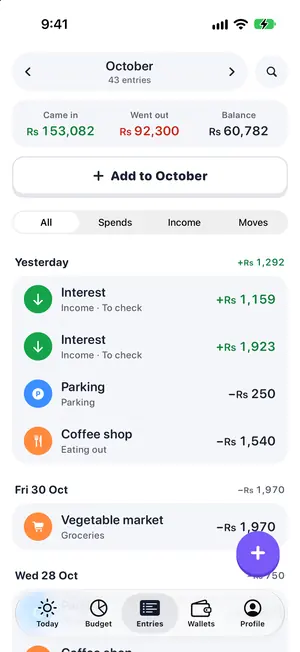
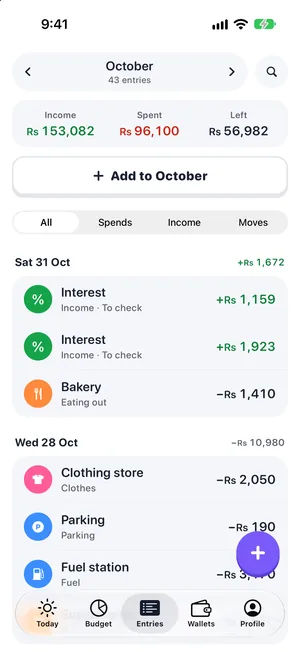
Pouch: re-shoot the screens the app changed
Entries and the Budget overview now read Income / Spent / Left, Wallets is one
list with New wallet, Your data and Add after you pay open from the Settings
sheet, and the Budget screen matches its overview month. All from the
fictional demo data.

diff --git a/work/pouch.html b/work/pouch.html
@@ -58,7 +58,7 @@
       <div class="group-head"><h3>Any currency, any language</h3><ul><li>Income has its own categories, like Salary.</li><li>Paid in another currency? Pouch converts at today&#x27;s rate.</li><li>38 currencies, with yours on top.</li><li>13 languages, including Sinhala and Tamil.</li></ul></div>
       <div class="rail phones"><figure><div class="phone"><div class="screen"><img src="../img/apps/pouch-income.webp" alt="Pouch currencies and languages, screen 1" loading="lazy" decoding="async" srcset="../img/apps/pouch-income-300.webp 300w, ../img/apps/pouch-income.webp 540w" sizes="(max-width: 640px) 34vw, (max-width: 900px) 160px, 240px"></div></div></figure><figure><div class="phone"><div class="screen"><img src="../img/apps/pouch-paid-in.webp" alt="Pouch currencies and languages, screen 2" loading="lazy" decoding="async" srcset="../img/apps/pouch-paid-in-300.webp 300w, ../img/apps/pouch-paid-in.webp 540w" sizes="(max-width: 640px) 34vw, (max-width: 900px) 160px, 240px"></div></div></figure><figure><div class="phone"><div class="screen"><img src="../img/apps/pouch-languages.webp" alt="Pouch currencies and languages, screen 3" loading="lazy" decoding="async" srcset="../img/apps/pouch-languages-300.webp 300w, ../img/apps/pouch-languages.webp 540w" sizes="(max-width: 640px) 34vw, (max-width: 900px) 160px, 240px"></div></div></figure><figure><div class="phone"><div class="screen"><img src="../img/apps/pouch-today-si.webp" alt="Pouch currencies and languages, screen 4" loading="lazy" decoding="async" srcset="../img/apps/pouch-today-si-300.webp 300w, ../img/apps/pouch-today-si.webp 540w" sizes="(max-width: 640px) 34vw, (max-width: 900px) 160px, 240px"></div></div></figure></div>
     </div><div class="group" data-reveal>
-      <div class="group-head"><h3>Entries, wallets and big buys</h3><ul><li>Every entry by day, with what is coming up.</li><li>Accounts, savings and cards, with net worth on top.</li><li>Big buys paid off in parts.</li></ul></div>
+      <div class="group-head"><h3>Entries, wallets and big buys</h3><ul><li>Every entry by day, with what is coming up.</li><li>Every wallet in one list, with net worth on top.</li><li>Big buys paid off in parts.</li></ul></div>
       <div class="rail phones"><figure><div class="phone"><div class="screen"><img src="../img/apps/pouch-entries.webp" alt="Pouch entries and wallets, screen 1" loading="lazy" decoding="async" srcset="../img/apps/pouch-entries-300.webp 300w, ../img/apps/pouch-entries.webp 540w" sizes="(max-width: 640px) 34vw, (max-width: 900px) 160px, 240px"></div></div></figure><figure><div class="phone"><div class="screen"><img src="../img/apps/pouch-wallets.webp" alt="Pouch entries and wallets, screen 2" loading="lazy" decoding="async" srcset="../img/apps/pouch-wallets-300.webp 300w, ../img/apps/pouch-wallets.webp 540w" sizes="(max-width: 640px) 34vw, (max-width: 900px) 160px, 240px"></div></div></figure><figure><div class="phone"><div class="screen"><img src="../img/apps/pouch-bigbuy-tiles.webp" alt="Pouch entries and wallets, screen 3" loading="lazy" decoding="async" srcset="../img/apps/pouch-bigbuy-tiles-300.webp 300w, ../img/apps/pouch-bigbuy-tiles.webp 540w" sizes="(max-width: 640px) 34vw, (max-width: 900px) 160px, 240px"></div></div></figure></div>
     </div><div class="group" data-reveal>
       <div class="group-head"><h3>Missions, insights and your data</h3><ul><li>Levels, weeks tracked and weekly missions.</li><li>Insights that encourage, never scold.</li><li>Your data stays on your phone.</li></ul></div>
